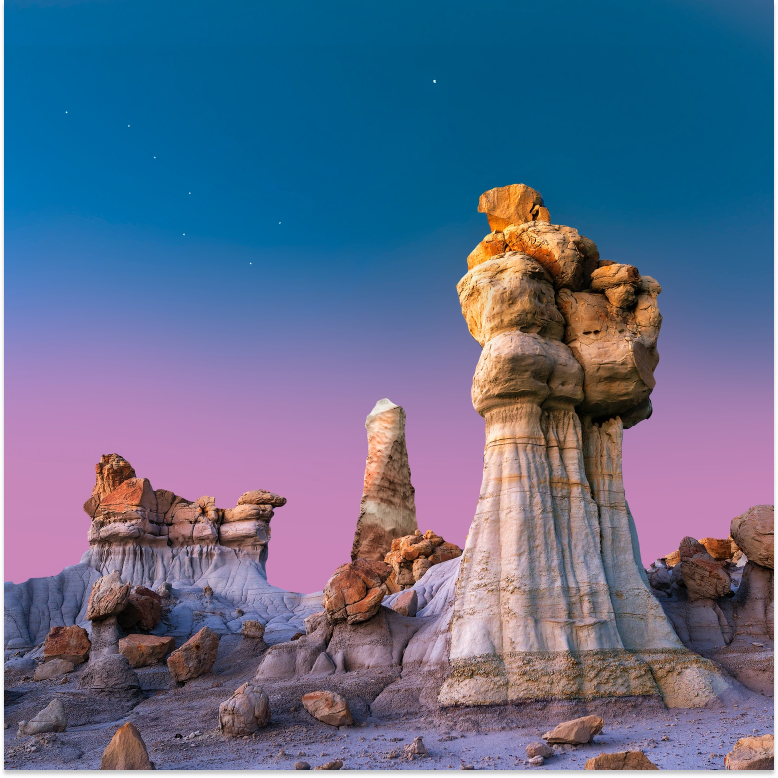
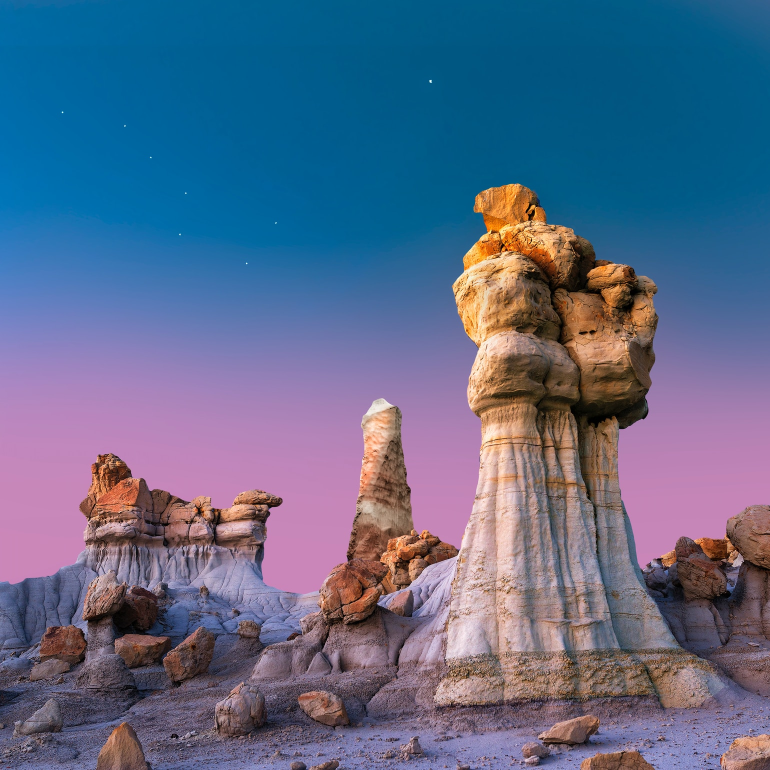
added styles for .image, changed photo

Changed region(s): [[0.0, 0.0, 1.0, 1.0]]

diff --git a/style.css b/style.css
@@ -57,6 +57,8 @@ img {
 }
 
 .image {
+  width: 100%;
+  height: 100%;
   grid-column: 1;
   grid-row: 1 / 3;
 }
